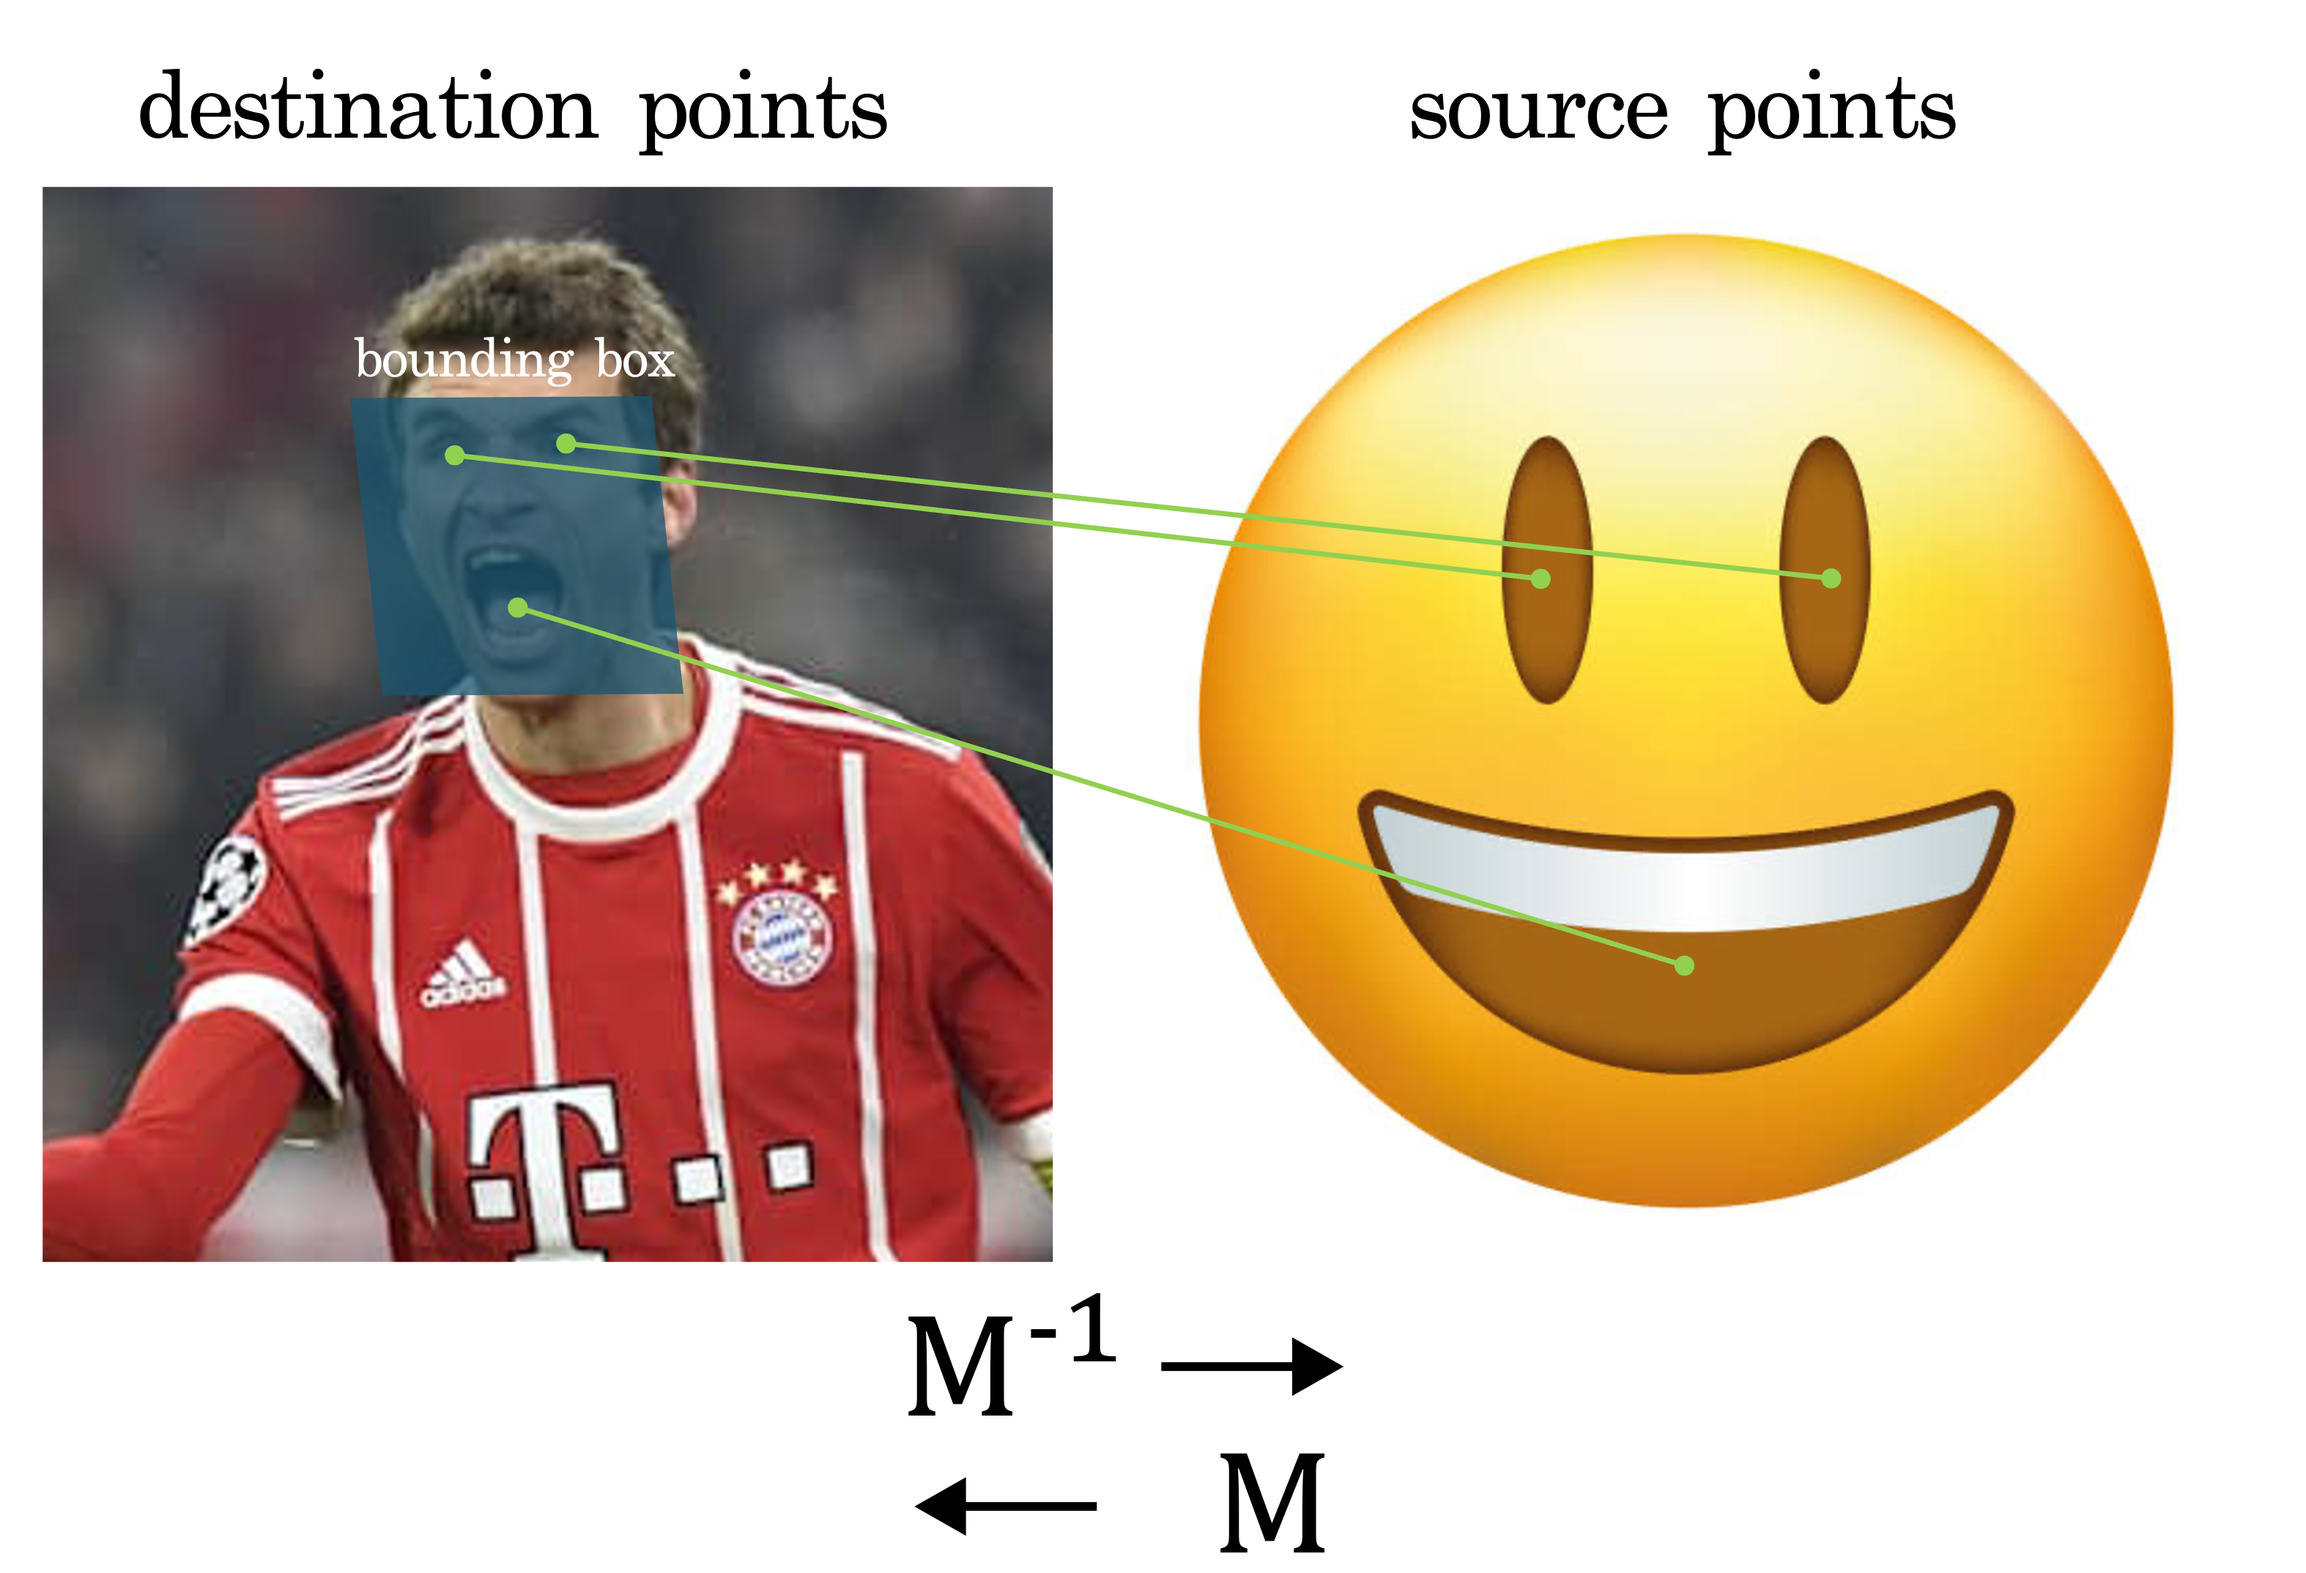
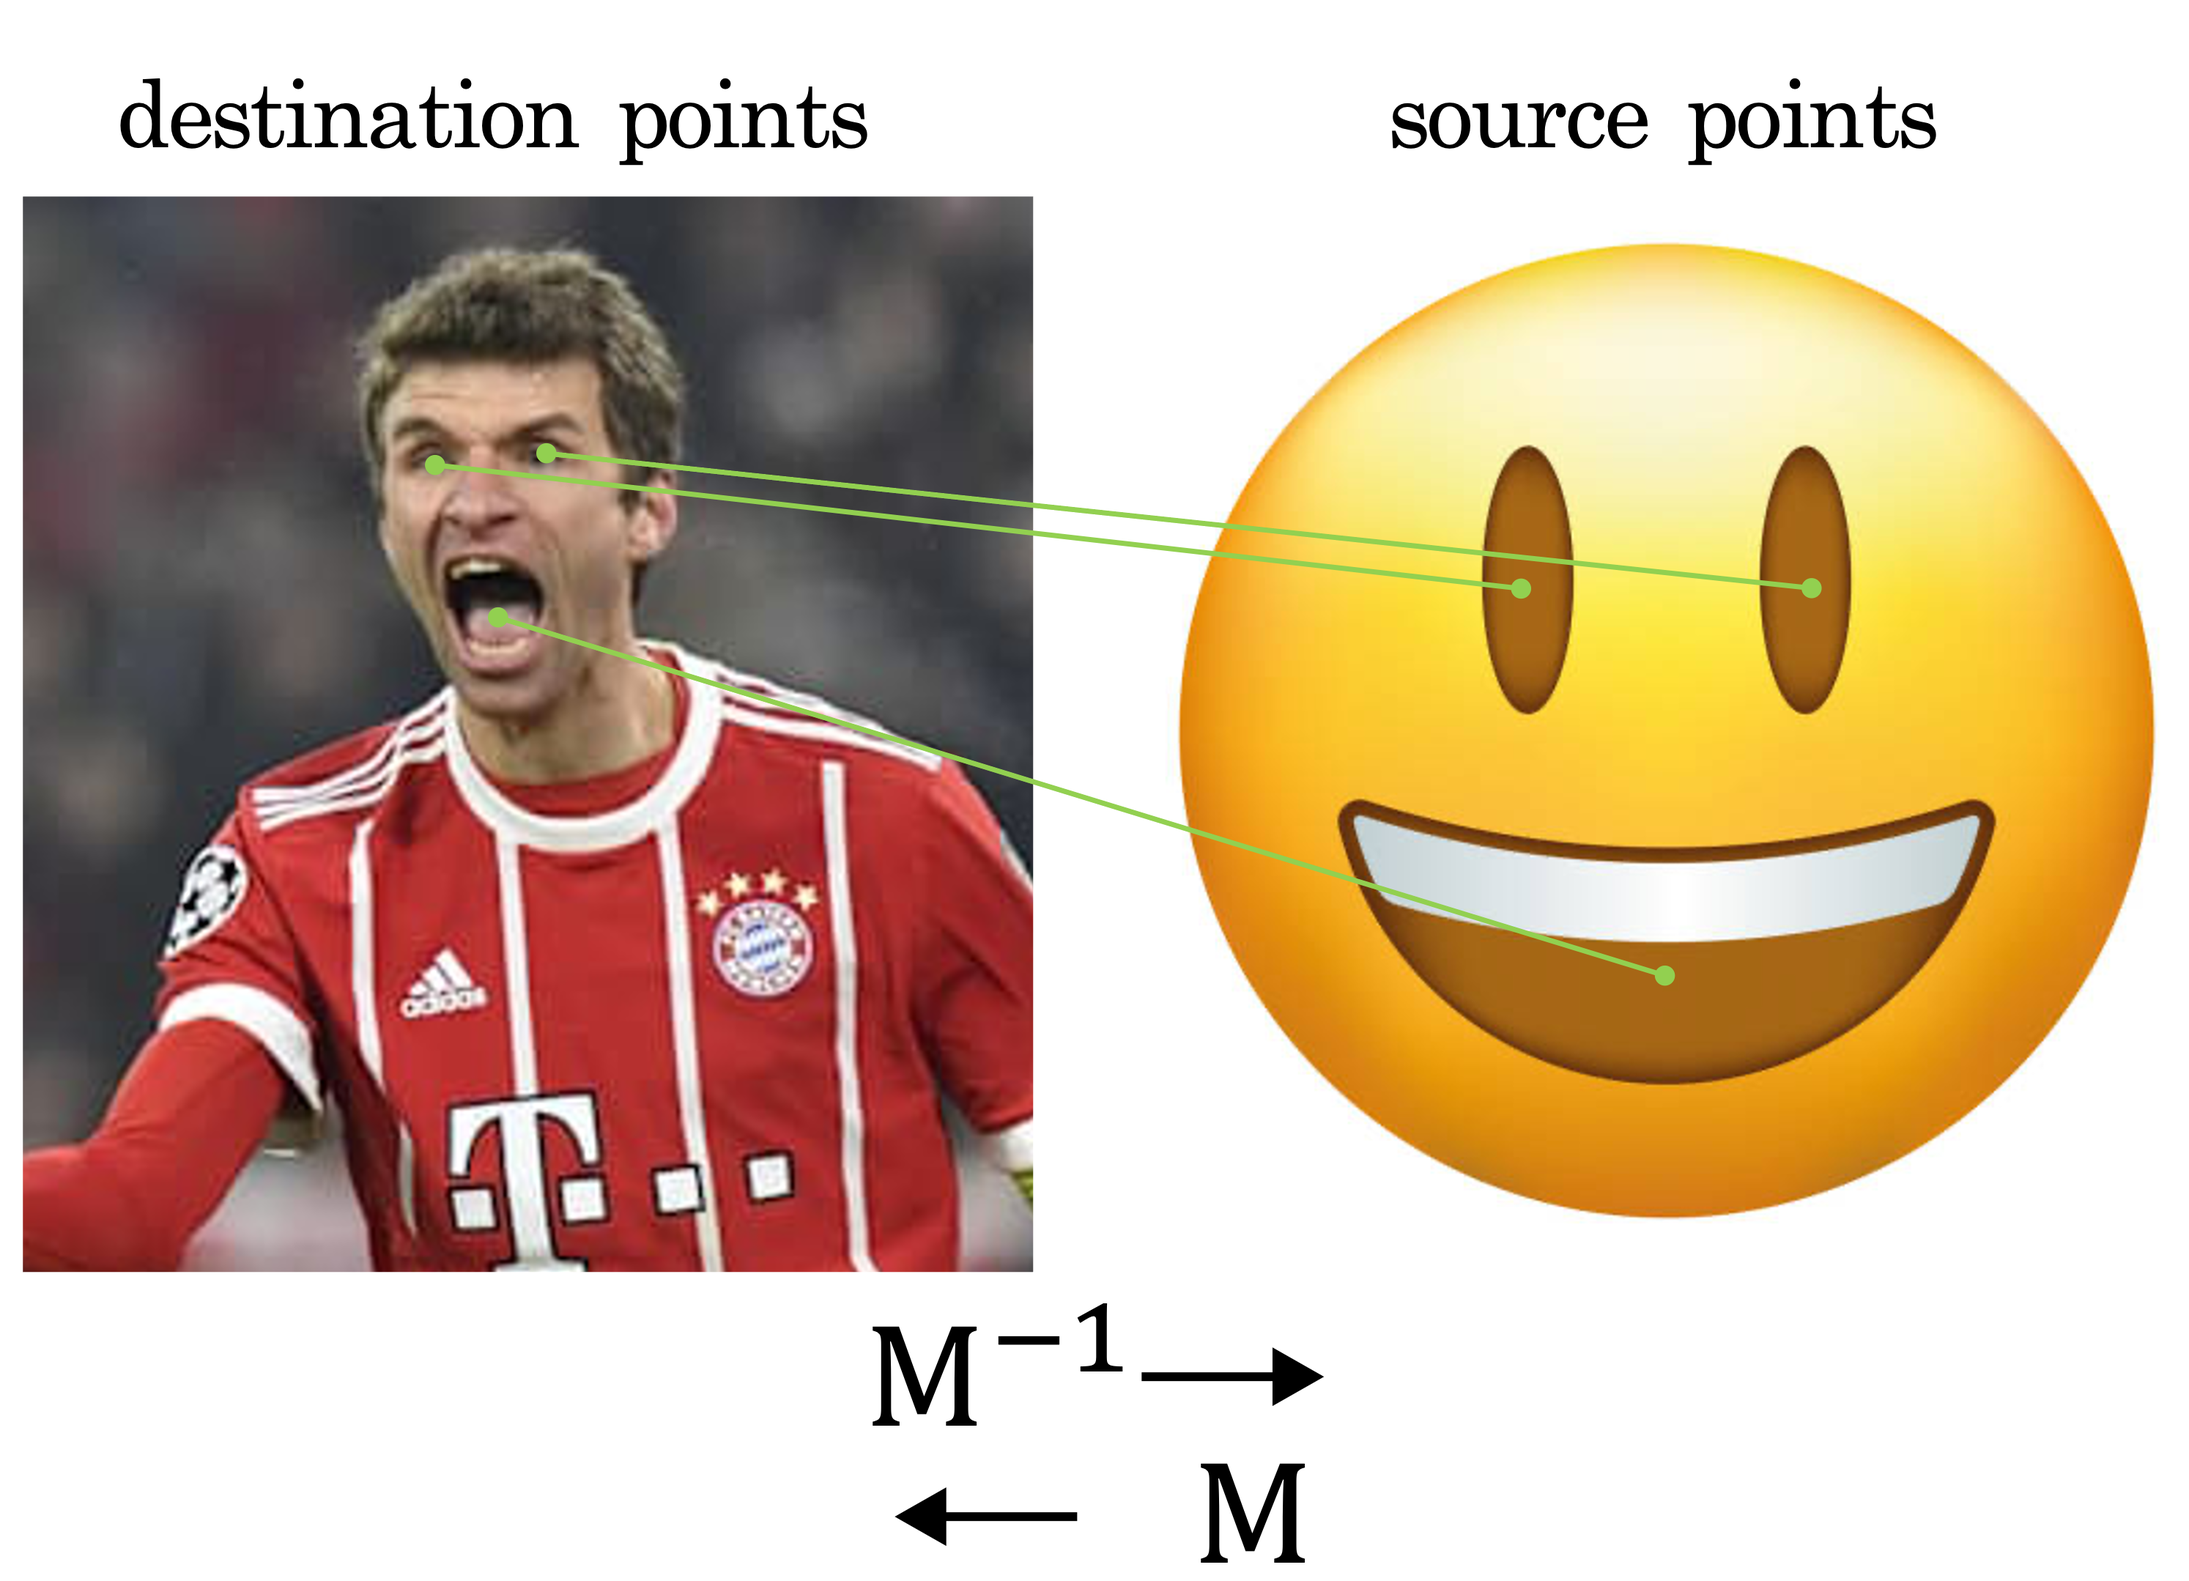
docs: update README to reflect changes in affine transformation terminology and add new visual assets for bounding box and warp affine

diff --git a/README.md b/README.md
@@ -45,7 +45,7 @@ open http://localhost:8000
 
 ![Architecture](docs/diagram.png)
 
-### 1. Preprocessing
+### 1. Partial Affine Transformation
 
 MediaPipe 를 사용하여 얼굴의 랜드마크를 추출하면 478개의 랜드마크를 얻을 수 있습니다.
 
@@ -117,9 +117,9 @@ void forward(const float* input, float* output) {
 
 `alignas(64)` 를 사용하여 64바이트 단위로 메모리를 정렬하고, `HIDDEN1_DIM`, `HIDDEN2_DIM`, `INPUT_DIM`, `OUTPUT_DIM` 을 `constexpr` 로 정의하여 컴파일러가 최대한 최적화할 수 있도록 하였습니다.
 
-### 3. Emoji Overlay
+### 3. Affine Transformation
 
-얼굴 표정을 인식한 후 이모지를 얼굴에 출력하기 위해, 이모지 상 좌표와 얼굴 랜드마크 간 변환 식을 Full Affine Transformation 을 통해 계산합니다.
+얼굴 표정을 인식한 후 이모지를 얼굴에 출력하기 위해, 이모지 상 좌표와 얼굴 랜드마크 간 변환 식을 Affine Transformation 을 통해 계산합니다.
 
 ```math
 \begin{bmatrix}
@@ -157,9 +157,21 @@ v_2 = dx_2 + ey_2 + f \\
 
 구한 Affine Matrix $M$ 은 emoji 에서 canvas 로의 변환 행렬입니다. 곧, $M^{-1}$ 은 canvas 에서 emoji 로의 변환 행렬입니다.
 
+### 4. Overlay Warp Affine
+
 canvas 의 모든 픽셀을 $M^{-1}$ 을 이용하여 emoji 의 좌표로 변환한 후, 이모지의 픽셀 값을 가져오면 이모지를 얼굴에 출력할 수 있습니다.
 
-이 과정에서 이모지의 픽셀 좌표가 소수점 이하의 값을 가질 수 있으므로, Bilinear Interpolation 을 통해 픽셀 값을 보간합니다.
+source 이미지의 모서리에 대해 $M$ 을 이용하여 canvas 에 들어가야 하는 source 의 범위를 구할 수 있습니다. 
+
+![](docs/bounding_box.png)
+
+이후 canvas 의 모든 픽셀을 $M^{-1}$ 을 이용하여 emoji 의 좌표로 변환하고, 그 좌표에 대한 source 의 픽셀 값을 가져오면 결과적으로 canvas 위에 source 이미지가 출력됩니다.
+
+![](docs/warp_affine.png)
+
+이 과정에서 이모지의 픽셀 좌표 $(u_0, v_0)$ 가 소수점 이하의 값을 가질 수 있으므로, Bilinear Interpolation 을 통해 픽셀 값을 보간합니다.
+
+이는 소수점 이하의 값을 가지는 픽셀 주변에 있는 4개의 픽셀 값을 얼마나 가깝냐에 따라 가중치를 부여하여 보간하는 방식입니다.
 
 ![](docs/interpolation.png)
 
